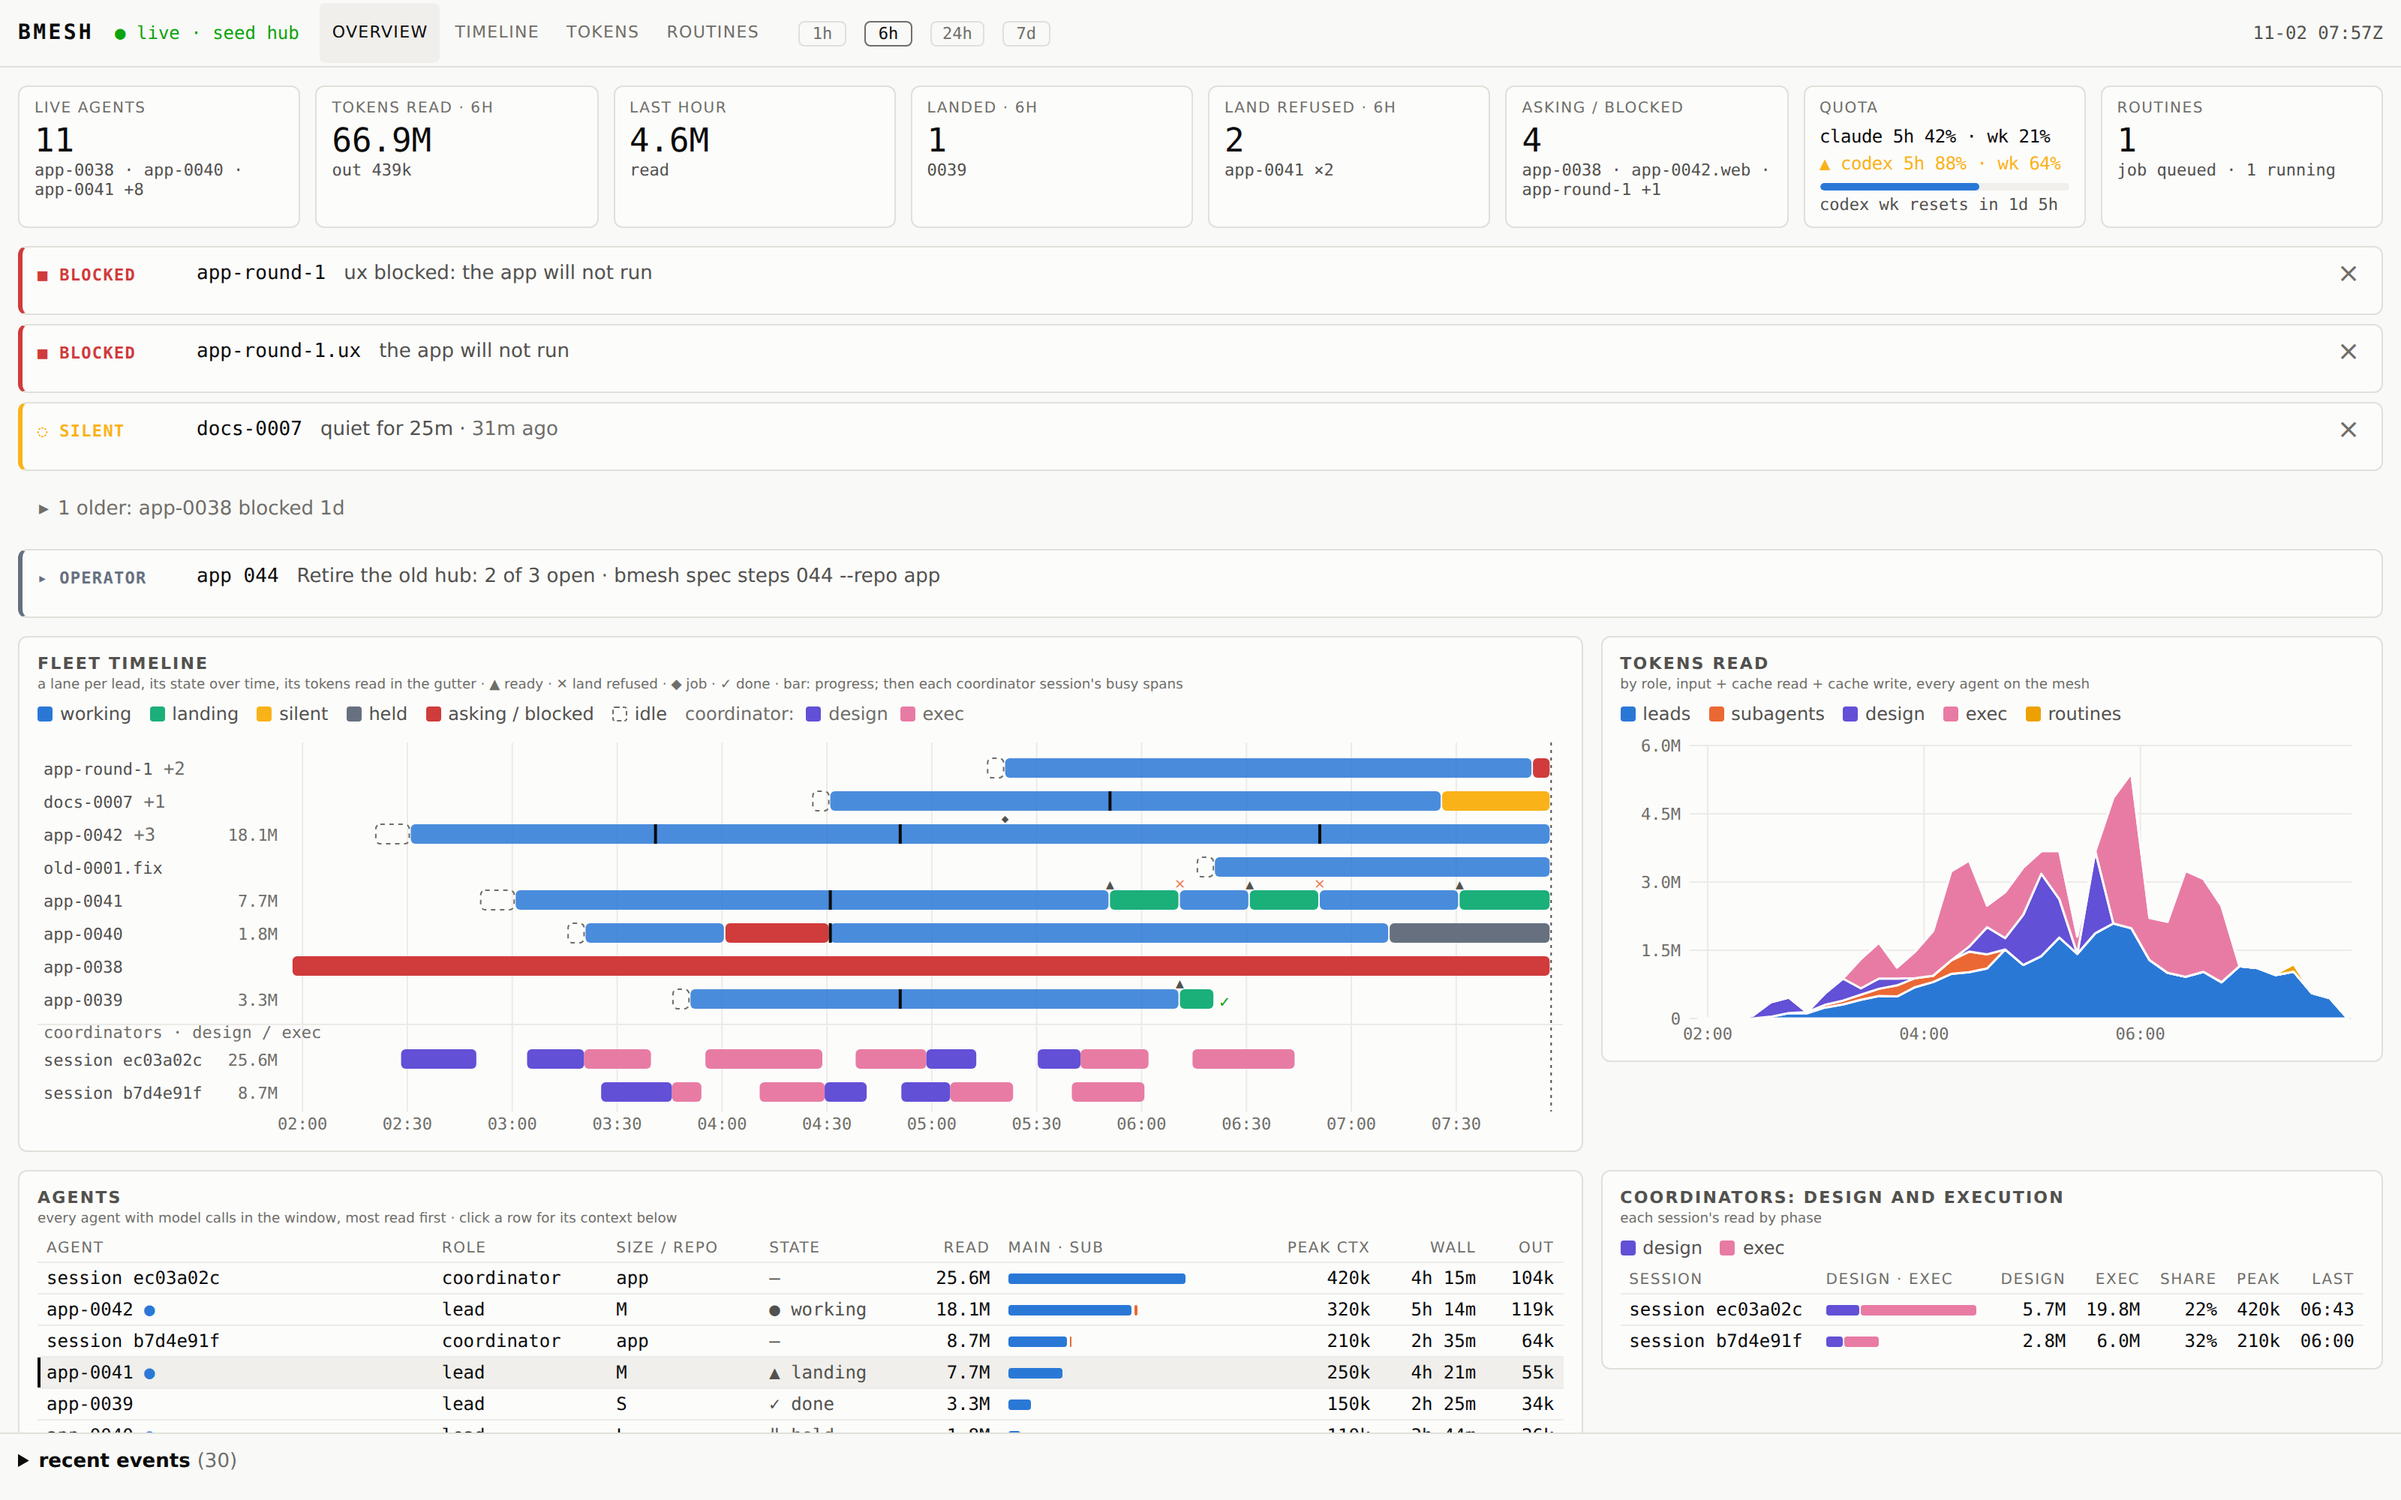
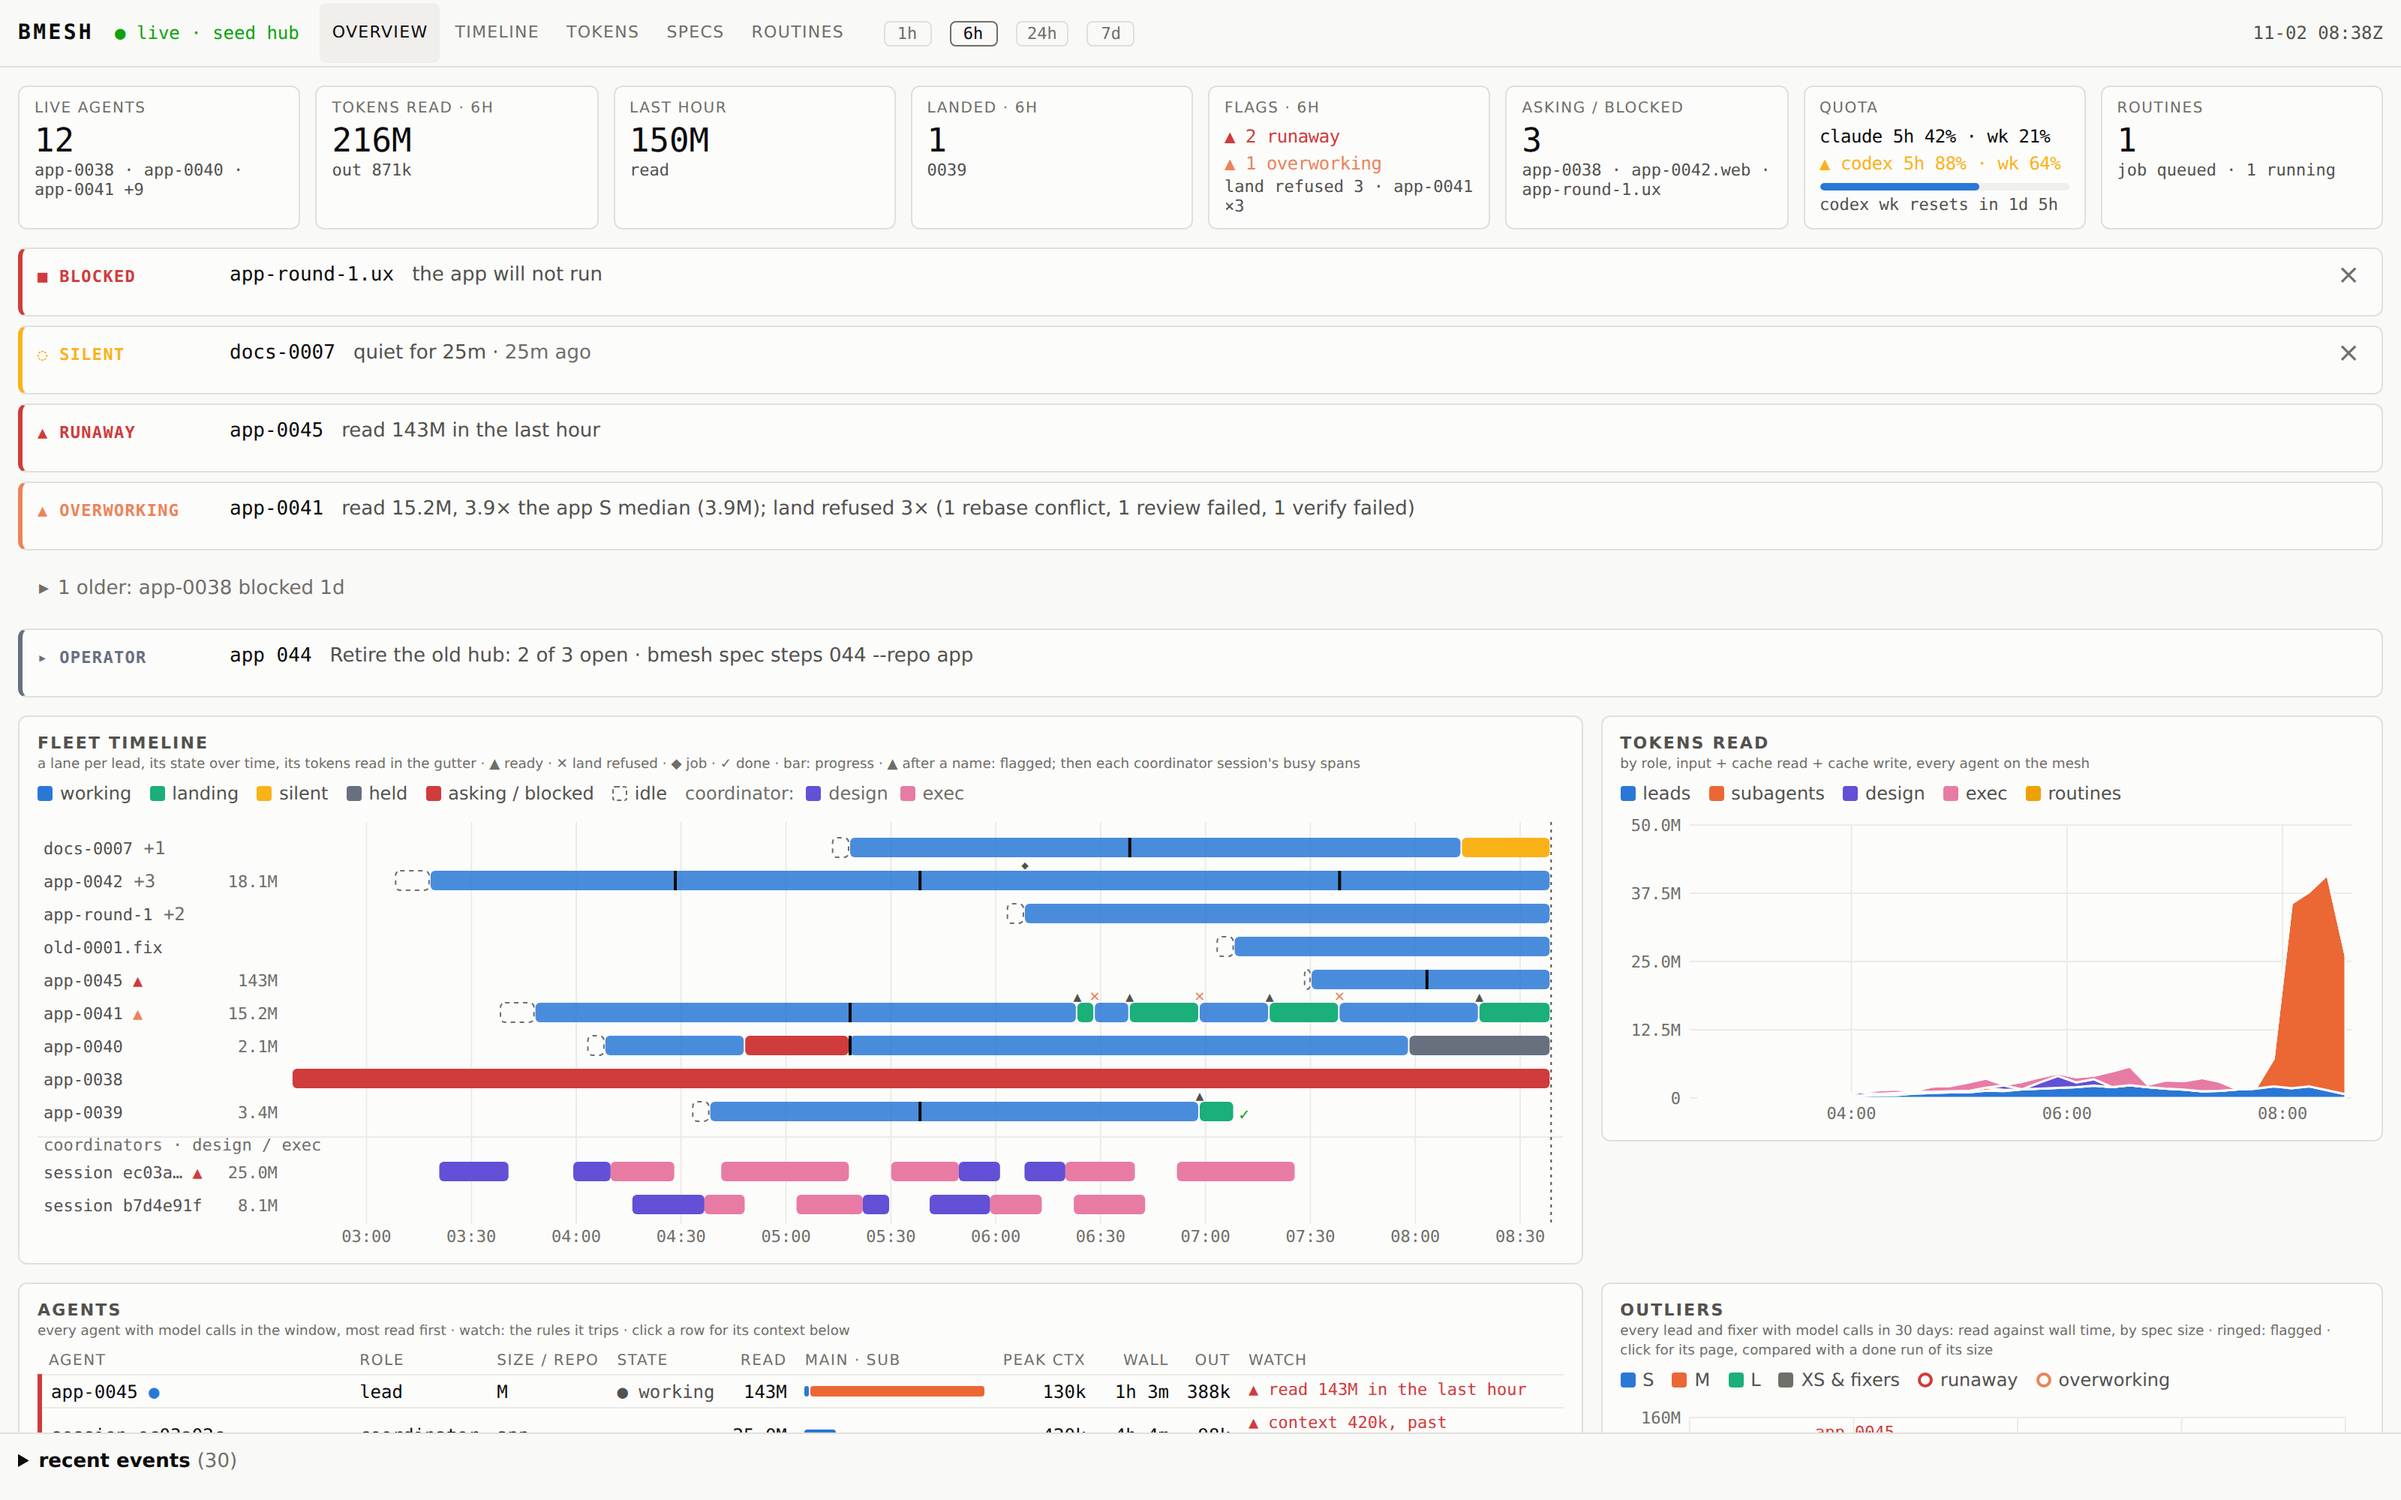
Spec 108: the manual's console flags, outliers and burndowns; screenshots of the seed at three sizes

diff --git a/internal/web/map.css b/internal/web/map.css
@@ -179,7 +179,7 @@ a.tile:hover { text-decoration: none; border-color: var(--tm); }
 .need .who { display: inline-flex; align-items: center; gap: 10px; min-height: 36px; color: var(--tp); }
 .need .who:hover { text-decoration: none; }
 .need .who .p { font-family: var(--mono); overflow-wrap: anywhere; }
-.need .badge { border: 0; padding: 0; min-width: 96px; }
+.need .badge { border: 0; padding: 0; min-width: 118px; }
 /* The row's bottom padding sits on the row, not the words: a clamped box
    shows its overflow through its own padding. */
 .need .say { min-height: 28px; font-size: 13px; line-height: 20px; padding-top: 8px; overflow-wrap: anywhere; color: var(--ts); }
@@ -594,7 +594,6 @@ a.tile:hover { text-decoration: none; border-color: var(--tm); }
 :root { --runaway: var(--crit); --overworking: var(--ser); }
 .need.fl-runaway { border-left-color: var(--runaway); cursor: default; }
 .need.fl-overworking { border-left-color: var(--overworking); cursor: default; }
-.need .badge.fl-runaway, .need .badge.fl-overworking { min-width: 118px; }
 .badge.fl-runaway { color: var(--runaway); }
 .badge.fl-overworking { color: var(--overworking); }
 .tile .v .fl-runaway { color: var(--runaway); }

diff --git a/README.md b/README.md
@@ -221,7 +221,7 @@ One always-on box runs the hub; the other boxes reach it over a tailnet such as 
   <picture>
     <source media="(prefers-color-scheme: dark)" srcset="docs/assets/map-dark.png">
     <source media="(prefers-color-scheme: light)" srcset="docs/assets/map-light.png">
-    <img alt="The bmesh console: the KPI tiles, the needs-you band, the fleet timeline of every lead's states and coordinator sessions beside tokens read by role, the agents table, coordinators' design and execution, context per model call and quota" src="docs/assets/map-light.png" width="100%">
+    <img alt="The bmesh console: the KPI tiles, the needs-you band, the fleet timeline of every lead's states and coordinator sessions beside tokens read by role, the flagged agents in the band, the agents table with its watch column beside the outliers, context per model call and quota" src="docs/assets/map-light.png" width="100%">
   </picture>
 </p>
 
